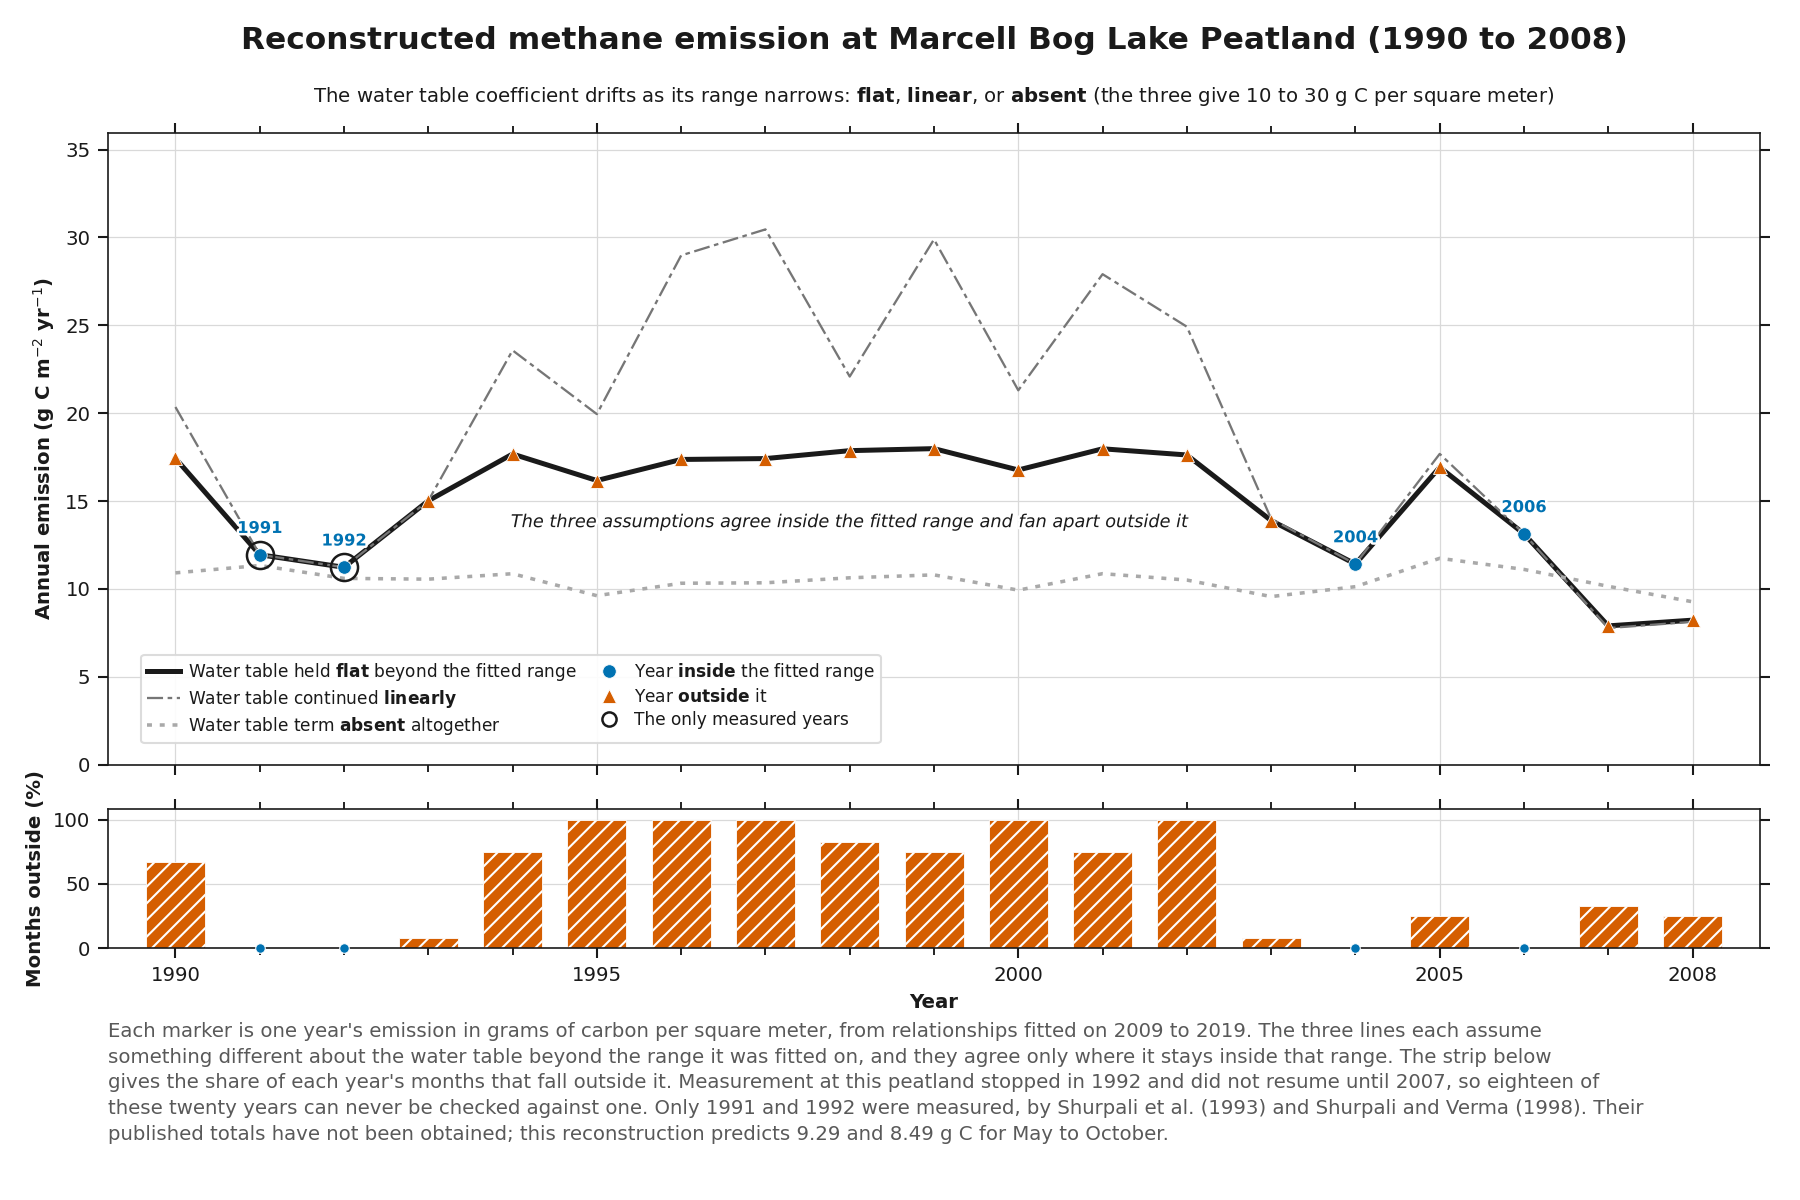
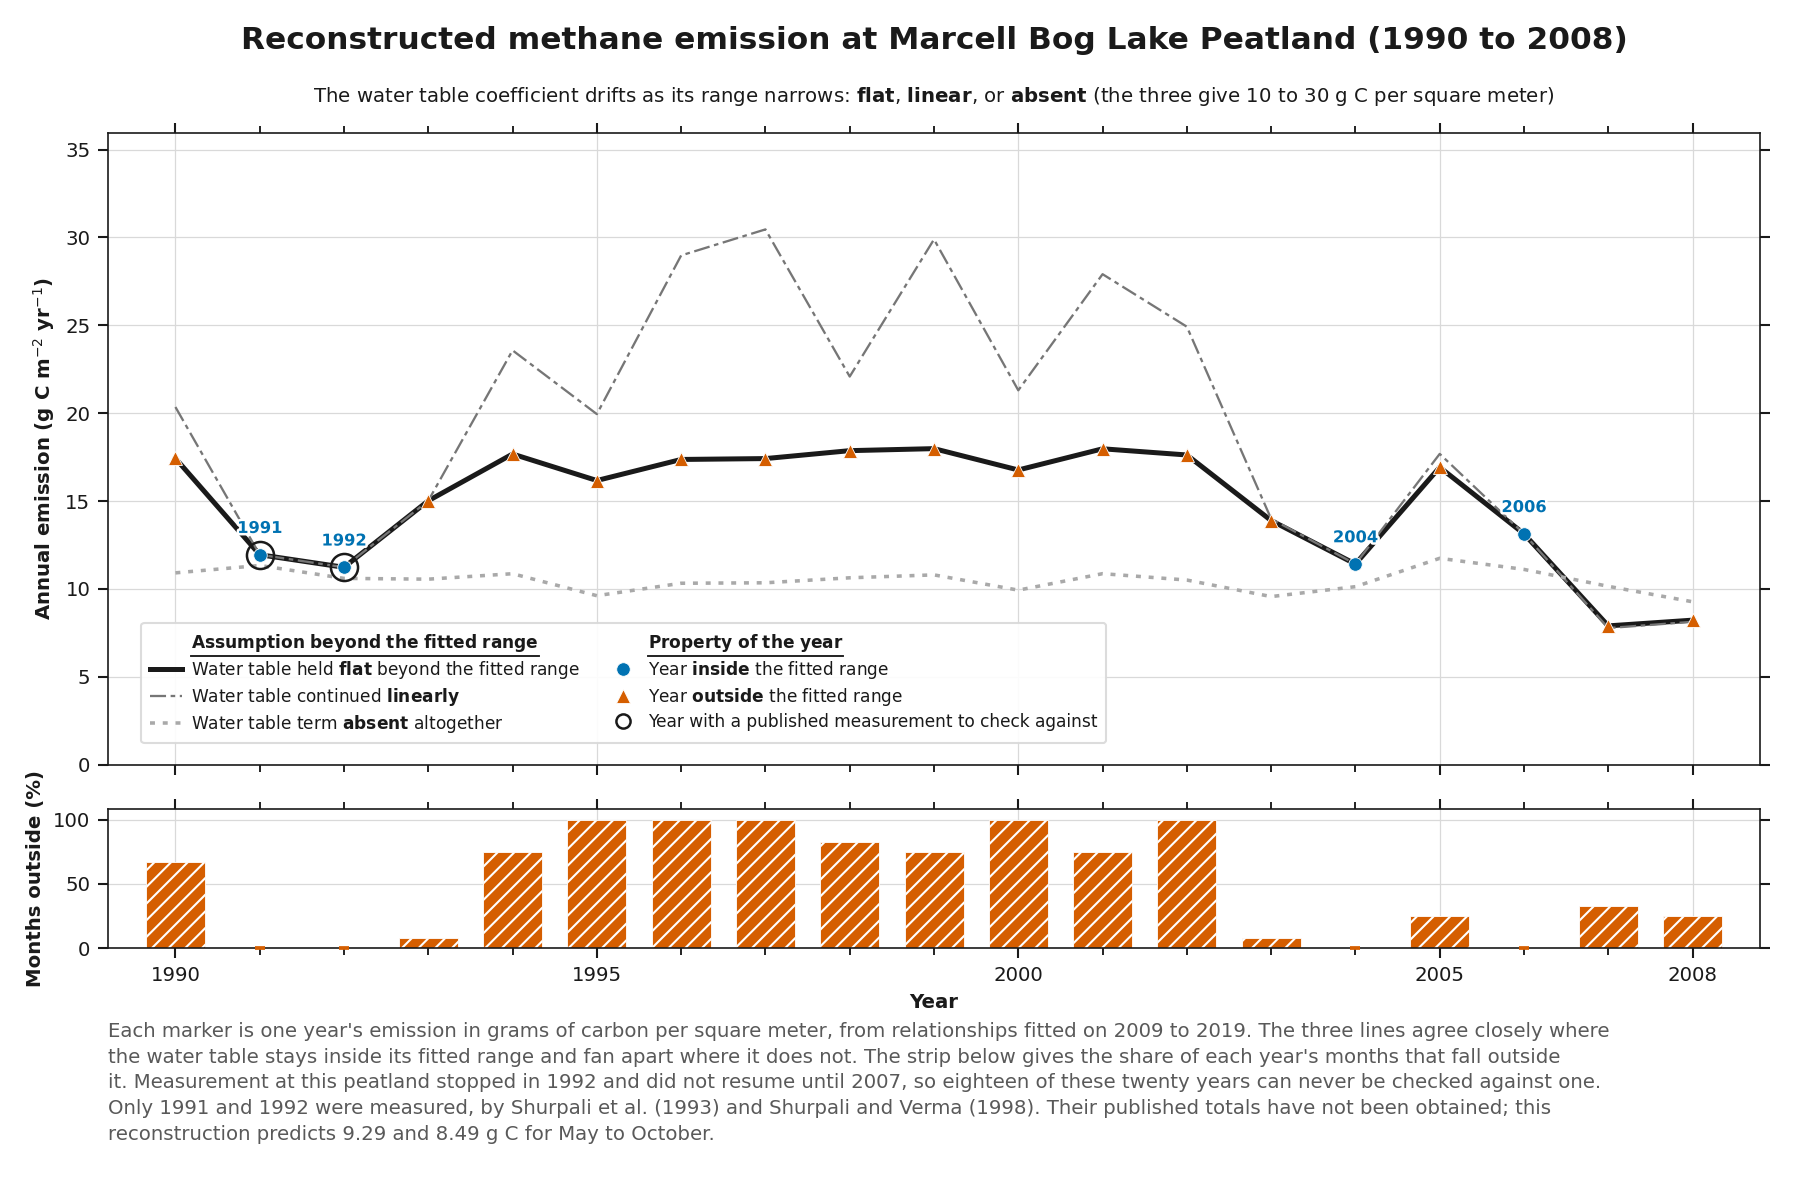
Tidy the reconstruction strip and legend

Changed region(s): [[0.0622, 0.8325, 0.9022, 0.9558], [0.0933, 0.5242, 0.6222, 0.6167], [0.3111, 0.4317, 0.6533, 0.4625]]

diff --git a/src/study/figures.py b/src/study/figures.py
@@ -169,9 +169,9 @@ RECONSTRUCTION_TEXT = ps.FigureText(
     ),
     description=(
         "Each marker is one year's emission in grams of carbon per square meter, "
-        "from relationships fitted on 2009 to 2019. The three lines each assume "
-        "something different about the water table beyond the range it was fitted "
-        "on, and they agree only where it stays inside that range. The strip below "
+        "from relationships fitted on 2009 to 2019. The three lines agree closely "
+        "where the water table stays inside its fitted range and fan apart where "
+        "it does not. The strip below "
         "gives the share of each year's months that fall outside it. Measurement at "
         "this peatland stopped in 1992 and did not resume until 2007, so eighteen "
         "of these twenty years can never be checked against one. Only 1991 and 1992 "
@@ -212,7 +212,8 @@ def reconstruction_series(annual: pd.DataFrame) -> Figure:
                        inside=True, label=r"Year $\bf{inside}$ the fitted range",
                        markersize=6.5)
     ps.support_scatter(ax, years[~inside], frame["clamped"].to_numpy()[~inside],
-                       inside=False, label=r"Year $\bf{outside}$ it", markersize=7.0)
+                       inside=False, label=r"Year $\bf{outside}$ the fitted range",
+                       markersize=7.0)
 
     check = frame[frame["year"].isin(MEASURED_YEARS)]
     # Drawn large enough to encircle its point, but entered in the legend at the
@@ -222,7 +223,8 @@ def reconstruction_series(annual: pd.DataFrame) -> Figure:
             markeredgewidth=1.2, zorder=3)
     measured_key = Line2D([], [], linestyle="none", marker="o", markersize=6.8,
                           markerfacecolor="none", markeredgecolor=ps.INK,
-                          markeredgewidth=1.2, label="The only measured years")
+                          markeredgewidth=1.2,
+                          label="Year with a published measurement to check against")
 
     # The circled years are two of these four, so one set of labels serves both.
     for _, row in frame[frame["support"] == "inside"].iterrows():
@@ -240,23 +242,31 @@ def reconstruction_series(annual: pd.DataFrame) -> Figure:
     ax.xaxis.set_minor_locator(MultipleLocator(1))
     ax.tick_params(labelbottom=False)
     ps.mirror_ticks(ax)
-    handles, labels = ax.get_legend_handles_labels()
-    handles.append(measured_key)
-    labels.append(measured_key.get_label())
-    ps.legend(ax, handles=handles, labels=labels, loc="lower left", fontsize=8.2,
-              borderpad=0.36, labelspacing=0.3, handlelength=1.9, handletextpad=0.5,
-              ncols=2, columnspacing=0.9, bbox_to_anchor=(0.015, 0.02))
+    # Two columns, one group each: the lines are assumptions about the model and
+    # the markers are properties of a year, which are different kinds of thing.
+    collected = dict(zip(*reversed(ax.get_legend_handles_labels())))
+    blank = Line2D([], [], linestyle="none", marker="none")
+    entries = [(blank, r"$\bf{Assumption\ beyond\ the\ fitted\ range}$")]
+    entries += [(collected[label], label) for label in WATER_TABLE_ASSUMPTIONS.values()]
+    entries += [(blank, r"$\bf{Property\ of\ the\ year}$")]
+    entries += [(collected[label], label) for label in
+                (r"Year $\bf{inside}$ the fitted range",
+                 r"Year $\bf{outside}$ the fitted range")]
+    entries += [(measured_key, measured_key.get_label())]
+    ps.legend(ax, handles=[h for h, _ in entries], labels=[label for _, label in entries],
+              loc="lower left", fontsize=8.2, borderpad=0.5, labelspacing=0.3,
+              handlelength=1.9, handletextpad=0.5, ncols=2, columnspacing=1.6,
+              bbox_to_anchor=(0.015, 0.02))
 
     share = frame["pct_months_outside"].to_numpy()
-    # A year wholly inside has a bar of zero height. Marking those years on the
-    # baseline distinguishes a measured zero from a year with nothing plotted.
-    strip.bar(years[inside], share[inside], width=0.7, color=ps.INSIDE,
-              edgecolor="white", linewidth=0.4)
-    strip.plot(years[inside], np.zeros(inside.sum()), linestyle="none",
-               marker=ps.INSIDE_MARKER, markersize=4.6, color=ps.INSIDE,
-               markeredgecolor="white", markeredgewidth=0.5, clip_on=False, zorder=4)
     strip.bar(years[~inside], share[~inside], width=0.7, color=ps.OUTSIDE,
               edgecolor="white", linewidth=0.4, hatch=ps.OUTSIDE_HATCH)
+    # A year wholly inside has a bar of zero height, which is a measured zero and
+    # not a missing one. It is marked flat and in the bars' own ink, so it reads
+    # as the bottom of that series rather than as a second quantity.
+    strip.plot(years[inside], np.zeros(inside.sum()), linestyle="none", marker="_",
+               markersize=5.2, markeredgewidth=1.8, color=ps.OUTSIDE,
+               clip_on=False, zorder=4)
     strip.set_ylim(0, 108)
     strip.set_yticks([0, 50, 100])
     strip.set_ylabel(ps.axis_label("Months outside", "%"))
@@ -265,15 +275,8 @@ def reconstruction_series(annual: pd.DataFrame) -> Figure:
     strip.xaxis.set_minor_locator(MultipleLocator(1))
     ps.mirror_ticks(strip)
 
-    # Set under the fan rather than led to it: a leader from clear space to the
-    # middle of the spread would cross every line it is describing.
-    fan = frame.loc[(frame["unclamped"] - frame["reduced"]).idxmax(), "year"]
-    ax.annotate(
-        "The three assumptions agree inside the fitted range and fan apart outside it",
-        xy=(float(fan) + 1.0, 13.8), ha="center", va="center",
-        fontsize=ps.ANNOTATION_SIZE, style="italic", color=ps.INK, zorder=5,
-        path_effects=[ps._outline()],
-    )
+    _underline_legend_headings(fig, ax)
+
     return fig
 
 

diff --git a/figures/README_fragments.md b/figures/README_fragments.md
@@ -20,7 +20,7 @@ Panel a is the peatland around the tower, with the wetland polygon the National 
 
 **The water table coefficient drifts as its range narrows: flat, linear, or absent (the three give 10 to 30 g C per square meter)**
 
-Each marker is one year's emission in grams of carbon per square meter, from relationships fitted on 2009 to 2019. The three lines each assume something different about the water table beyond the range it was fitted on, and they agree only where it stays inside that range. The strip below gives the share of each year's months that fall outside it. Measurement at this peatland stopped in 1992 and did not resume until 2007, so eighteen of these twenty years can never be checked against one. Only 1991 and 1992 were measured, by Shurpali et al. (1993) and Shurpali and Verma (1998). Their published totals have not been obtained; this reconstruction predicts 9.29 and 8.49 g C for May to October.
+Each marker is one year's emission in grams of carbon per square meter, from relationships fitted on 2009 to 2019. The three lines agree closely where the water table stays inside its fitted range and fan apart where it does not. The strip below gives the share of each year's months that fall outside it. Measurement at this peatland stopped in 1992 and did not resume until 2007, so eighteen of these twenty years can never be checked against one. Only 1991 and 1992 were measured, by Shurpali et al. (1993) and Shurpali and Verma (1998). Their published totals have not been obtained; this reconstruction predicts 9.29 and 8.49 g C for May to October.
 
 ### Monthly methane and carbon dioxide forecast error at Marcell Bog Lake Peatland
 
